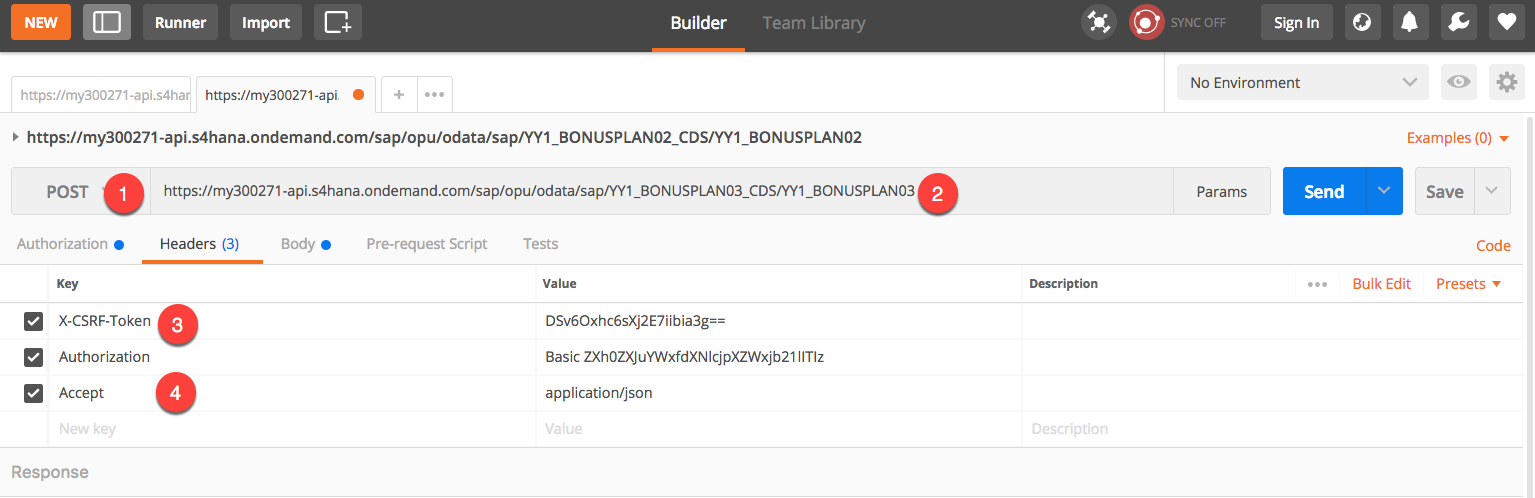
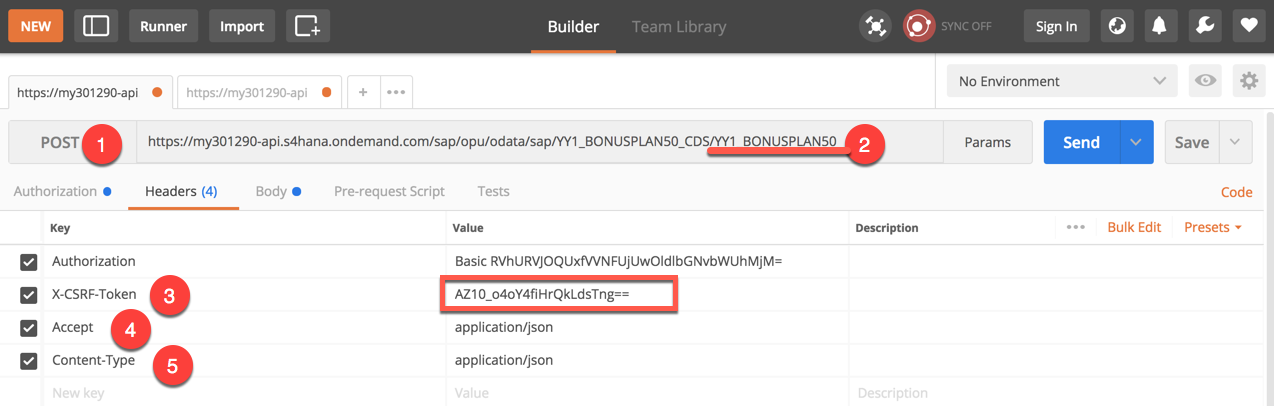
Update Exercise 110 bebefore the SAP Web IDE part

diff --git a/Day1/Exercise_110/Exercise_110.md b/Day1/Exercise_110/Exercise_110.md
@@ -161,26 +161,32 @@ Execute “Save” to finish creation.
 POSTMAN application is there to test Web services by sending requests and receiving responses.
 All included postman screenshots are reprinted with permission © Postdot Technologies Inc. All rights reserved.
 
-####General test####
+#### General test ####
 
 1. Start the POSTMAN application. Ensure that you have disabled “SSL certificate verification” (File > Settings > General)
 
-	![4](images/31.png)
-1. Enter the Service URL and execute “Send” action. You will get a Login Error as response in the response section, but this already shows that the system as such is reachable. 
+	![](images/31.png)
+1. Enter the Service URL and execute **Send** action.
 
-	![4](images/32.png)
-1. Change authorization type to “Basic Auth” now, enter Username “EXTERNAL_USERXX” and the Password that you set for External_USERXX.
+   You will get **401 Unauthorized** as response in the response section if you start the POSTMAN from the chrome browser which has certificate that belongs to other system.
+   
+   You will get **200 OK** as response in the response section if you start the POSTMAN from the chrome browser which you have logon to the S/4HANA system.
+   
+   The response indeicates that the system is reachable. 
+	![](images/32.png)
+	
+1. Change authorization type to **Basic Auth** now, enter Username **EXTERNAL_USERXX** and the Password that you set for External_USERXX. Click on **Update Request**. **Send** the service request again. 
 
-	![4](images/33.png)
-1. Send the service request again. Now you will get a successful response of the service.
+	![](images/33.png) 
+	
+1. Now you will get a successful response **200 OK** of the service. This way you can test, if the service is working in general.
 
-	![4](images/34.png)
-1. This way you can test, if the service is working in general.
+	![](images/34.png) 
 
-####Create a Bonus Plan instance####
+#### Create a Bonus Plan instance ####
 
-#####Get X-CSRF-Token#####
-Whenever you want to do a change to the Custom Business Object’s persistence, for security reasons you need to send a X-CSRF-Token with that change request. To get such a Token you have to send a get request first, which fetches one.
+##### Get X-CSRF-Token #####
+Whenever you want to do a change to the Custom Business Object’s persistence, for security reasons you need to send a **X-CSRF-Token** with that changes request. To get such a token, you have to send a get request first to fetch it.
 
 1. Enter the basic service request URL of Bonus Plans
 1. Ensure to be on “Headers” tab.
@@ -188,96 +194,113 @@ Whenever you want to do a change to the Custom Business Object’s persistence, 
 1. Send the request. 
 1. Copy the returned X-CSRF-Token to clipboard. 
 
-	![](images/35.png)
-	The gotten token will be valid for 30 minutes and fetching a token will return the same as long as validity has not ended yet.
+	![](images/35.png) 
+	The fetched token will be valid for **30** minutes and fetching a token will return the same as long as validity has not ended yet.
 
-#####Create Instance#####
+##### Create Instance #####
 To create a new bonus plan via the service, do the following in postman.
 
-1. Change the request method to “Post”.
-1. As the basic service URL returns only the overview of all reachable Entity Sets (= Collections), you have to narrow it down for Bonus Plans by appending their Entity Set name “/YY1_BONUSPLANXX”
-1. Paste the before gotten X-CSRF-Token as value to the corresponding header key
-1. Add new header key “Accept” with value “application/json”, this will ensure that the response will be gotten in JSON format, which is easier to work with than XML.
+1. Change the request method to **POST**.
+1. As the basic service URL returns only the overview of all reachable Entity Sets (= Collections), you have to narrow it down for Bonus Plans by appending their Entity Set name `/YY1_BONUSPLANXX`
+1. Paste the previous fetched X-CSRF-Token as value to the corresponding header key
+1. Add new header key **Accept** with value `application/json`, this will ensure that the response will be gotten in JSON format, which is easier to work with than XML.
+1. Add new header key **Content-Type** with value `application/json`
 
-	![](images/36.png)
+	![](images/36.png) 
+	
 1. Switch to the Body tab
-1. Set the body type to “raw” 
-1. Now you additionally set the editor type “JSON”, which will enable correct syntax highlighting and header key for Content-Type
+1. Set the body type to **raw**
+1. Set the editor type **JSON (application/json)**, which will enable correct syntax highlighting and header key for Content-Type
 1. Enter the initial data for the to be created bonus plan in JSON format to the editor
 	
-	```abap
+	```
 	{
-		"ValidityStartDate": "2018-01-01T00:00:00",
-    	"ValidityEndDate": "2018-12-31T00:00:00",
-        "LowBonusPercentage_V": "10",
-        "HighBonusPercentage_V": "20",
-        "EmployeeID": <any>,
+		"ValidityStartDate": "/Date(1514764800000)/",
+    	"ValidityEndDate": "/Date(1546214400000)/",
+        "LowBonusPercentage_V": "10.000",
+        "HighBonusPercentage_V": "20.000",
+        "EmployeeID": "<any>",
         "TargetAmount_V": "1000.00",
         "TargetAmount_C": "EUR",
         "LowBonusAssignmentFactor": "1.00",
         "HighBonusAssignmentFactor": "3.00"
 	}
 	```
-	`EmployeeID` `<any>` shall be the one of a sales person that created sales orders with a Net Amount of more than 3000.00 EUR in 2016 and that are completed. In this exercise, you can use "CB9980000008". 
-1. Send the request. 
+	
+	**ValidityStartDate** "/Date(1514764800000)/" is the json format for 01/01/2018. 
+	
+	**ValidityEndDate** "/Date(1546214400000)/" is the json format for 12/31/2018. 
+	
+	**EmployeeID** "<any>" shall be the one of a sales person that created sales orders with a Net Amount of more than 3000.00 EUR in 2018 and that are completed. In this exercise, you can use "CB9980000008" or your own ID.
+	
+1. **Send** the request. 
+
+	![](images/38.png) 
+
+1. You will get **201 Created** status. You will see a new instance has been created. From the **ID** you can see, that it’s a new one and the logic automatically fill the data accordinly.
 
 	![](images/37.png)
-1. The response will show the new instance’s data. From the ID you can see, that it’s a new one and that the logic to fill data automatically also worked successfully. 
-
-	![](images/38.png)
 	
-####Update a Bonus Plan instance####
+#### Update a Bonus Plan instance ####
 
-#####Get SAP_UUID#####
+##### Get SAP_UUID #####
 
 To update an instance, you have to use the internal SAP_UUID as technical key. To get this unique key, do the following steps
 
-1. Switch the request method to “GET” and enter the request URL for bonus plan entities with the parameters 
+1. Switch the request method to **GET** and enter the request URL for bonus plan entities with the parameters 
 
 	| Parameter Name | Parameter Value | Description  |
 	|------------|-------------|-------------|
-	| `filter` | `ID eq ‘2’` | `filters for bonus plan of which the semantic key “ID” has value 2`  |
+	| `filter` | `ID eq ‘                  2’` | `filters for bonus plan of which the semantic key “ID” has value 2`  |
 	| `select` | `SAP_UUID` | `restricts response data for the chosen bonus plan to its SAP_UUID`    |
+	
+	
 	The request will look like below:
 	
-	https://<YOUR_SYSTEMS_URL>/sap/opu/odata/sap/YY1_BONUSPLANXX_CDS/YY1_BONUSPLANXX?$filter=ID%20eq%20'2'&$select=SAP_UUID
+	`https://<YOUR_SYSTEMS_URL>/sap/opu/odata/sap/YY1_BONUSPLANXX_CDS/YY1_BONUSPLANXX?$select=SAP_UUID&$filter=ID%20eq%20'                  2'`
+	
+	Pay attention to the ID number.  We have define the ID as "Text of length 20". The ID has 20 length `'                  2'`.
 	
 	This is the example for using our system:
-	https://my300271-api.s4hana.ondemand.com/sap/opu/odata/sap/YY1_BONUSPLAN03_CDS/YY1_BONUSPLAN03?$filter=ID%20eq%20'1'&$select=SAP_UUID
+	`https://my301290-api.s4hana.ondemand.com/sap/opu/odata/sap/YY1_BONUSPLANXX_CDS/YY1_BONUSPLANXX?$select=SAP_UUID&$filter=ID%20eq%20'                  2'`
 	
-1. Send the request.
-1. Copy SAP_UUID to clipboard.
+1. **Send** the request.
+
+1. Copy **SAP_UUID** to clipboard.
 
 	![](images/39.png)
 
-#####Update#####
+##### Update #####
 
-1. Switch the request method to “PATCH”.
-1. Enter the request URL for a bonus plan entity and add the before gotten guid to its end following this syntax “(guid'<guid_value>’)”, for example */YY1_BONUSPLAN(guid’8cdcd4a8-05c0-1ed7-8ec1-84ed870dedb5′)
+1. Switch the request method to **PATCH**.
+1. Enter the request URL for a bonus plan entity. And add the previous gotten **guid** to the end following this syntax `(guid'<guid_value>’)`, for example `/YY1_BONUSPLAN(guid’8cdcd4a8-05c0-1ed7-8ec1-84ed870dedb5′)`
 	
 	The request will look like below:
 	
-	https://<YOUR_SYSTEMS_URL>/sap/opu/odata/sap/YY1_BONUSPLANXX_CDS/YY1_BONUSPLANXX(guid'<guid_value>')
+	`https://<YOUR_SYSTEMS_URL>/sap/opu/odata/sap/YY1_BONUSPLANXX_CDS/YY1_BONUSPLANXX(guid'<guid_value>')`
 	
 	This is the example for using our system:
 
-	https://my300271-api.s4hana.ondemand.com/sap/opu/odata/sap/YY1_BONUSPLAN03_CDS/YY1_BONUSPLAN03(guid'00163e39-3b39-1ee7-afd1-fc3701e4eed5')
+	`https://my301290-api.s4hana.ondemand.com/sap/opu/odata/sap/YY1_BONUSPLANXX_CDS/YY1_BONUSPLANXX(guid'00163e59-c752-1ee8-91d9-5b81e449bccd')`
 	
 1. Enter following JSON to the body
 
-	```abap
+	```
 	{
-		"ValidityStartDate": "2017-01-01T00:00:00",
-    	"ValidityEndDate": "2017-12-31T00:00:00"
+		"ValidityStartDate": "/Date(1514764800000)/",
+    	"ValidityEndDate": "/Date(1546214400000)/"
 	}
 	```
 	
-1. Send the request
+1. **Send** the request
+
 1. You will see that the update worked as you do get an empty body as response.
 
 	![](images/40.png)
 
-####Using the service####
+#### Using the service (Optional) ####
+Note 1 : You can skip this exercise if you have MacBook. 
+Note 2: This exercise only works for Microsoft Office 365.  If you have older version of the Microsoft Office, it does not work.
 
 1. Open Microsoft Excel with a new “Book” (= excel file)
 1. Go to “Data” tab > “New Query” > “From Other Sources” > “From OData Feed”
@@ -358,7 +381,7 @@ You can use a service in SAP CP in many different way. You can use it to build a
 
 **Use Configured SAP Web IDE with S/4HANA Cloud**
 
-1. Click on SAP Web IDE tile
+1. Click on **SAP Web IDE** tile
 
 	![4](images/57.png)
 	
